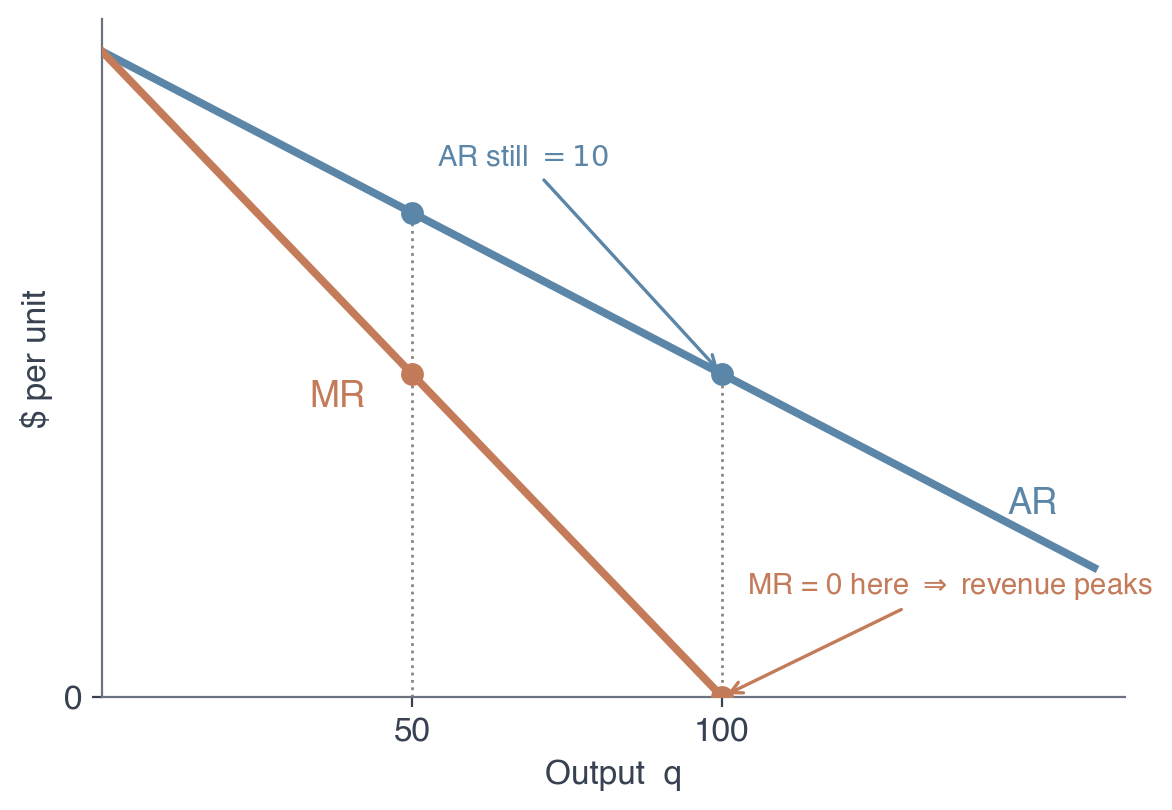
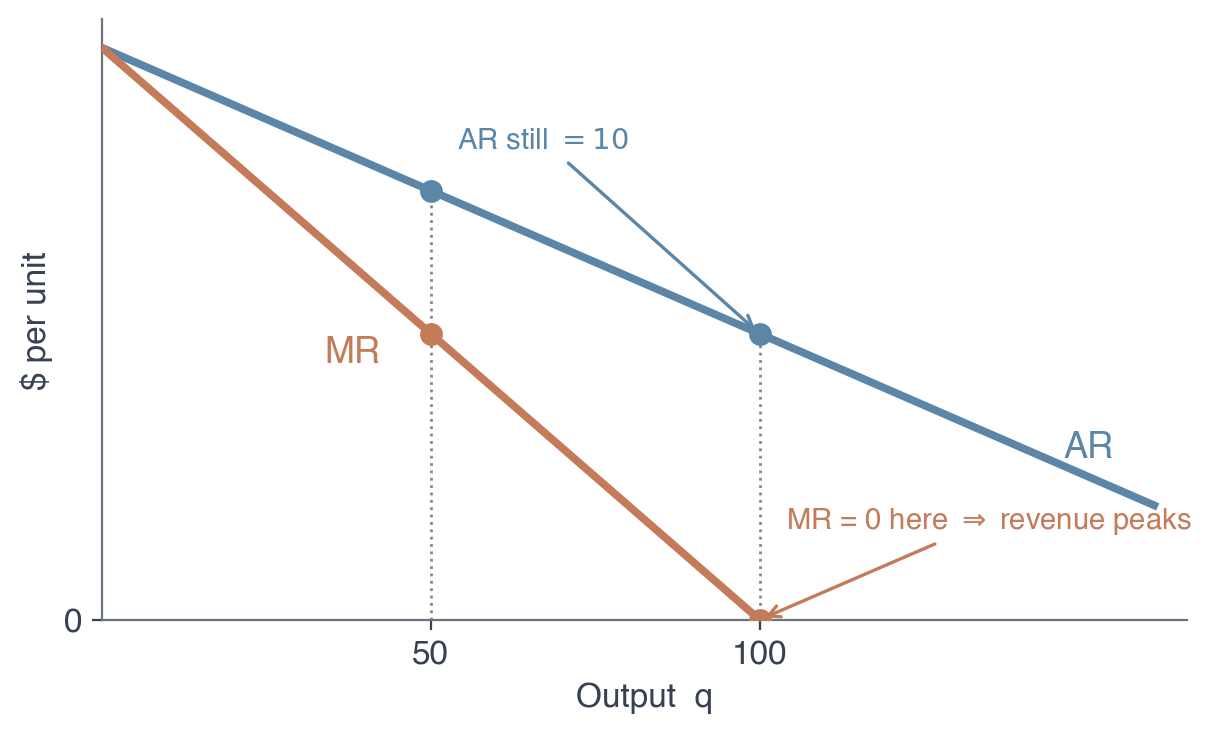
Ch 1 deck: W1.3 rebalance layout (top: text|figure, bottom: table|key-result) + slimmer AR/MR figure

diff --git a/econ2316/ch01-adventures-in-microeconomics/index.html b/econ2316/ch01-adventures-in-microeconomics/index.html
@@ -871,28 +871,30 @@
 <!-- ===== Slide 16 — Walkthrough 1.3 marginal vs average revenue ===== -->
 <section id="walkthrough-1-3">
   <h2><i class="fa-solid fa-pen-to-square" style="color: var(--accent-color);"></i> Walkthrough 1.3 &mdash; Marginal vs Average Revenue</h2>
-  <div style="display: grid; grid-template-columns: 1fr 1fr; gap: 18px; align-items: start;">
+  <div style="display: grid; grid-template-columns: 1fr 1.08fr; gap: 22px; align-items: center; margin-bottom: 14px;">
     <div>
       <div style="background: rgba(196, 123, 90, 0.10); border-left: 4px solid var(--accent-color); border-radius: 6px; padding: 8px 15px; margin: 0 0 9px;">
         <p style="margin: 0; font-size: 11.5pt; line-height: 1.45;"><strong>Problem.</strong> \(R(q)=20q-0.1q^{2}\). Find \(AR\) and \(MR\) at \(q=50\) and \(q=100\). At what \(q\) is total revenue maximized?</p>
       </div>
       <p class="fragment fade-up" data-fragment-index="1" style="font-size: 12pt; line-height: 1.5; margin: 0 0 5px;"><strong>1.</strong> \(AR(q)=R/q=20-0.1q\): \(AR(50)=15,\ AR(100)=10\).</p>
       <p class="fragment fade-up" data-fragment-index="2" style="font-size: 12pt; line-height: 1.5; margin: 0 0 5px;"><strong>2.</strong> \(MR(q)=dR/dq=20-0.2q\): \(MR(50)=10,\ MR(100)=0\).</p>
-      <p class="fragment fade-up" data-fragment-index="3" style="font-size: 12pt; line-height: 1.5; margin: 0 0 9px;"><strong>3.</strong> FOC \(MR=0 \Rightarrow q^{*}=100\); SOC \(R''=-0.2&lt;0\) &check;. \(R(100)=\$1{,}000\).</p>
-      <div class="key-result fragment fade-up" data-fragment-index="5" style="margin: 0;">
-        <p style="margin: 0; font-size: 12pt;">At the peak \(AR=10\) but \(MR=0\). A firm watching \(AR\) alone thinks "still earning \$10/unit &mdash; sell more." Wrong: the next unit earns <strong>nothing</strong> at the margin.</p>
-      </div>
+      <p class="fragment fade-up" data-fragment-index="3" style="font-size: 12pt; line-height: 1.5; margin: 0;"><strong>3.</strong> FOC \(MR=0 \Rightarrow q^{*}=100\); SOC \(R''=-0.2&lt;0\) &check;. \(R(100)=\$1{,}000\).</p>
     </div>
     <div>
-      <img alt="Average and marginal revenue lines for R(q)=20q-0.1q squared. AR slopes down gently; MR slopes down twice as fast and reaches zero at q-star = 100, where total revenue peaks while AR is still 10." src="figures/w13-ar-mr.png" style="width: 100%; border-radius: 8px; margin-bottom: 8px;">
-      <table class="pm fragment fade-up" data-fragment-index="4" style="font-size: 10.5pt; width: 100%; margin: 0;">
-        <tr><th>\(q\)</th><th>\(AR\)</th><th>\(MR\)</th></tr>
-        <tr><td>50</td><td>15</td><td>10</td></tr>
-        <tr><td>100</td><td class="ce">10</td><td class="hi">0</td></tr>
-      </table>
+      <img alt="Average and marginal revenue lines for R(q)=20q-0.1q squared. AR slopes down gently; MR slopes down twice as fast and reaches zero at q-star = 100, where total revenue peaks while AR is still 10." src="figures/w13-ar-mr.png" style="width: 100%; border-radius: 8px;">
     </div>
   </div>
-  <aside class="notes">Average and marginal are different objects with different units. Below q=100, MR>0 (an extra unit raises revenue); above it, MR<0. The figure shows AR sloping down gently and MR twice as fast, hitting zero at q*=100 where revenue peaks. The trap - expanding on the strength of a healthy average - is the same mistake that keeps a firm producing below marginal cost. Reveal order: three steps, then the table, then the key-result. Walkthrough 1.4 runs the identical logic on Netflix with real numbers.</aside>
+  <div style="display: grid; grid-template-columns: auto 1fr; gap: 20px; align-items: center;">
+    <table class="pm fragment fade-up" data-fragment-index="4" style="font-size: 11pt; margin: 0;">
+      <tr><th>\(q\)</th><th>\(AR\)</th><th>\(MR\)</th></tr>
+      <tr><td>50</td><td>15</td><td>10</td></tr>
+      <tr><td>100</td><td class="ce">10</td><td class="hi">0</td></tr>
+    </table>
+    <div class="key-result fragment fade-up" data-fragment-index="5" style="margin: 0;">
+      <p style="margin: 0; font-size: 12pt;">At the peak \(AR=10\) but \(MR=0\). A firm watching \(AR\) alone thinks "still earning \$10/unit &mdash; sell more." Wrong: the next unit earns <strong>nothing</strong> at the margin.</p>
+    </div>
+  </div>
+  <aside class="notes">Average and marginal are different objects. Below q=100, MR>0 (an extra unit raises revenue); above it, MR<0. The figure shows AR sloping down gently and MR twice as fast, hitting zero at q*=100 where revenue peaks. Reveal order: three steps (top-left), then the table and the key-result (bottom). The trap - expanding on a healthy average - is the same mistake that keeps a firm producing below marginal cost. Walkthrough 1.4 runs the identical logic on Netflix with real numbers.</aside>
 </section>
       <section id="marginal-derivative">
   <h2><i class="fa-solid fa-chart-line" style="color: var(--accent-color);"></i> The Marginal Is the Slope of the Tangent</h2>

diff --git a/econ2316/ch01-adventures-in-microeconomics/presentation.html b/econ2316/ch01-adventures-in-microeconomics/presentation.html
@@ -871,28 +871,30 @@
 <!-- ===== Slide 16 — Walkthrough 1.3 marginal vs average revenue ===== -->
 <section id="walkthrough-1-3">
   <h2><i class="fa-solid fa-pen-to-square" style="color: var(--accent-color);"></i> Walkthrough 1.3 &mdash; Marginal vs Average Revenue</h2>
-  <div style="display: grid; grid-template-columns: 1fr 1fr; gap: 18px; align-items: start;">
+  <div style="display: grid; grid-template-columns: 1fr 1.08fr; gap: 22px; align-items: center; margin-bottom: 14px;">
     <div>
       <div style="background: rgba(196, 123, 90, 0.10); border-left: 4px solid var(--accent-color); border-radius: 6px; padding: 8px 15px; margin: 0 0 9px;">
         <p style="margin: 0; font-size: 11.5pt; line-height: 1.45;"><strong>Problem.</strong> \(R(q)=20q-0.1q^{2}\). Find \(AR\) and \(MR\) at \(q=50\) and \(q=100\). At what \(q\) is total revenue maximized?</p>
       </div>
       <p class="fragment fade-up" data-fragment-index="1" style="font-size: 12pt; line-height: 1.5; margin: 0 0 5px;"><strong>1.</strong> \(AR(q)=R/q=20-0.1q\): \(AR(50)=15,\ AR(100)=10\).</p>
       <p class="fragment fade-up" data-fragment-index="2" style="font-size: 12pt; line-height: 1.5; margin: 0 0 5px;"><strong>2.</strong> \(MR(q)=dR/dq=20-0.2q\): \(MR(50)=10,\ MR(100)=0\).</p>
-      <p class="fragment fade-up" data-fragment-index="3" style="font-size: 12pt; line-height: 1.5; margin: 0 0 9px;"><strong>3.</strong> FOC \(MR=0 \Rightarrow q^{*}=100\); SOC \(R''=-0.2&lt;0\) &check;. \(R(100)=\$1{,}000\).</p>
-      <div class="key-result fragment fade-up" data-fragment-index="5" style="margin: 0;">
-        <p style="margin: 0; font-size: 12pt;">At the peak \(AR=10\) but \(MR=0\). A firm watching \(AR\) alone thinks "still earning \$10/unit &mdash; sell more." Wrong: the next unit earns <strong>nothing</strong> at the margin.</p>
-      </div>
+      <p class="fragment fade-up" data-fragment-index="3" style="font-size: 12pt; line-height: 1.5; margin: 0;"><strong>3.</strong> FOC \(MR=0 \Rightarrow q^{*}=100\); SOC \(R''=-0.2&lt;0\) &check;. \(R(100)=\$1{,}000\).</p>
     </div>
     <div>
-      <img alt="Average and marginal revenue lines for R(q)=20q-0.1q squared. AR slopes down gently; MR slopes down twice as fast and reaches zero at q-star = 100, where total revenue peaks while AR is still 10." src="figures/w13-ar-mr.png" style="width: 100%; border-radius: 8px; margin-bottom: 8px;">
-      <table class="pm fragment fade-up" data-fragment-index="4" style="font-size: 10.5pt; width: 100%; margin: 0;">
-        <tr><th>\(q\)</th><th>\(AR\)</th><th>\(MR\)</th></tr>
-        <tr><td>50</td><td>15</td><td>10</td></tr>
-        <tr><td>100</td><td class="ce">10</td><td class="hi">0</td></tr>
-      </table>
+      <img alt="Average and marginal revenue lines for R(q)=20q-0.1q squared. AR slopes down gently; MR slopes down twice as fast and reaches zero at q-star = 100, where total revenue peaks while AR is still 10." src="figures/w13-ar-mr.png" style="width: 100%; border-radius: 8px;">
     </div>
   </div>
-  <aside class="notes">Average and marginal are different objects with different units. Below q=100, MR>0 (an extra unit raises revenue); above it, MR<0. The figure shows AR sloping down gently and MR twice as fast, hitting zero at q*=100 where revenue peaks. The trap - expanding on the strength of a healthy average - is the same mistake that keeps a firm producing below marginal cost. Reveal order: three steps, then the table, then the key-result. Walkthrough 1.4 runs the identical logic on Netflix with real numbers.</aside>
+  <div style="display: grid; grid-template-columns: auto 1fr; gap: 20px; align-items: center;">
+    <table class="pm fragment fade-up" data-fragment-index="4" style="font-size: 11pt; margin: 0;">
+      <tr><th>\(q\)</th><th>\(AR\)</th><th>\(MR\)</th></tr>
+      <tr><td>50</td><td>15</td><td>10</td></tr>
+      <tr><td>100</td><td class="ce">10</td><td class="hi">0</td></tr>
+    </table>
+    <div class="key-result fragment fade-up" data-fragment-index="5" style="margin: 0;">
+      <p style="margin: 0; font-size: 12pt;">At the peak \(AR=10\) but \(MR=0\). A firm watching \(AR\) alone thinks "still earning \$10/unit &mdash; sell more." Wrong: the next unit earns <strong>nothing</strong> at the margin.</p>
+    </div>
+  </div>
+  <aside class="notes">Average and marginal are different objects. Below q=100, MR>0 (an extra unit raises revenue); above it, MR<0. The figure shows AR sloping down gently and MR twice as fast, hitting zero at q*=100 where revenue peaks. Reveal order: three steps (top-left), then the table and the key-result (bottom). The trap - expanding on a healthy average - is the same mistake that keeps a firm producing below marginal cost. Walkthrough 1.4 runs the identical logic on Netflix with real numbers.</aside>
 </section>
       <section id="marginal-derivative">
   <h2><i class="fa-solid fa-chart-line" style="color: var(--accent-color);"></i> The Marginal Is the Slope of the Tangent</h2>

diff --git a/econ2316/ch01-adventures-in-microeconomics/figures/render_w13_armr.py b/econ2316/ch01-adventures-in-microeconomics/figures/render_w13_armr.py
@@ -17,7 +17,7 @@ plt.rcParams.update({
     "axes.grid": False, "axes.spines.top": False, "axes.spines.right": False,
 })
 
-fig, ax = plt.subplots(figsize=(6.6, 4.4))
+fig, ax = plt.subplots(figsize=(7.0, 3.9))
 qa = np.array([0, 160]); ax.plot(qa, 20 - 0.1 * qa, color=C["ar"], lw=2.8, zorder=3)
 qm = np.array([0, 120]); ax.plot(qm, 20 - 0.2 * qm, color=C["mr"], lw=2.8, zorder=3)
 ax.text(150, 20 - 0.1 * 150 + 0.7, "AR", color=C["ar"], fontsize=13, fontweight="bold", ha="center")
